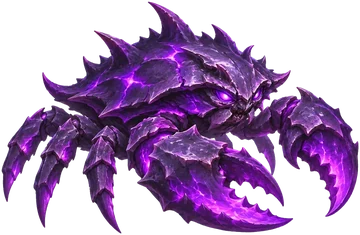
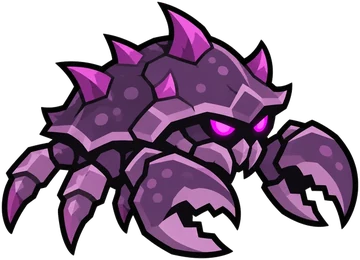
sea: 굵은 만화풍으로 그림 12장·화면 틀 교체, 6판까지 열기
Claude-Session: https://claude.ai/code/session_01BVqfE3F1DYhPhA1ypr4yii

diff --git a/sea/game.js b/sea/game.js
@@ -14,7 +14,8 @@ const TOWERS={
   rune:  {cost:90, range:92, cd:.22,dmg:2.6,cls:'mag',beam:true,aura:.15,reveal:true},
 };
 const LV_DMG=[1,1.75,2.7,4.1],LV_RANGE=[1,1.08,1.16,1.24],UP_COST=[.85,1.35,2.4],SELL=.7,MAX_TLV=4;   // 4단계 = 각성(두 갈래 중 하나)
-const UNLOCK={coral:0,bubble:0,jelly:0,conch:2,rune:5};      // 몇 번째 판(0부터)부터 쓸 수 있는가
+const OPEN_N=6;   // 지금 열어 둔 판 수(새 그림체 그림이 있는 범위). 그림이 다 오면 STAGE_N 으로
+const UNLOCK={coral:0,bubble:0,jelly:0,conch:6,rune:8};   // 그림이 오기 전까지 뒤로 미룸(원래 2, 5)      // 몇 번째 판(0부터)부터 쓸 수 있는가
 /* 각성 갈래: 3단계에서 4단계로 올릴 때 하나를 고른다 */
 const BRANCH={
   coral: [{id:'storm',n:['산호 폭풍','珊瑚风暴'],d:['연사 +50%, 관통이 더 자주','射速 +50%，更频繁贯穿']},{id:'venom',n:['독가시','毒刺'],d:['맞은 적에 독(3초)과 갑옷 깎기','命中附带中毒(3秒)并削弱护甲']}],
@@ -55,7 +56,7 @@ const ENEMIES={
   squid:    {hp:72, sp:38,r:12,gold:9, cost:2,  ink:[7,100,4],from:11},       // 먹물: 수호탑 시야를 가림(눌러서 닦기)
   horseshoe:{hp:125,sp:26,r:14,gold:12,cost:2.8,armor:.3,split:3,from:15},    // 분열: 쓰러지면 치어 3마리
   turtle:   {hp:300,sp:18,r:17,gold:25,cost:6,  armor:.3,shell:.3,from:21},   // 바위 껍질: 3초 안 맞으면 보호막 재생
-  elite:    {hp:520,sp:23,r:18,gold:45,cost:11, armor:.3,leak:3,command:[80,.18]}, // 지휘: 주변 적 속도 +18%
+  elite:    {hp:520,sp:23,r:18,gold:45,cost:11, armor:.3,leak:3,command:[80,.18],art:'crab',ew:66,tint:'#ffb040'}, // 지휘: 주변 적 속도 +18%
   /* 구역 보스: art = 쓸 그림, ph = 체력 비율에 따른 패턴 */
   boss: {hp:6000,sp:12,r:30,gold:150,cost:0,armor:.2,leak:12,ew:110,ph:[[.7,'summon','minnow',7],[.45,'ink',3.5],[.22,'summon','elite',2]]},
   boss2:{hp:6600,sp:11,r:30,gold:180,cost:0,armor:.45,leak:12,art:'turtle',ew:120,tint:'#7fa0c0',ph:[[.75,'shield',.25],[.5,'jam',3,4],[.25,'shield',.3]]},
@@ -454,7 +455,7 @@ class Game{
 }
 
 /* ============================== 플랫폼 층: 화면·터치·저장·언어·소리 (위챗·더우인 이식 때 이 파일만 손본다) ============================== */
-const BUILD='1117-1700';
+const BUILD='1117-1742';
 const VW=750,VH=1334,K=VW/W;
 const cv=document.getElementById('game');const g=cv.getContext('2d');cv.width=VW;cv.height=VH;
 function mkCanvas(w,h){const c=document.createElement('canvas');c.width=w;c.height=h;return c;}
@@ -541,11 +542,11 @@ function vib(ms){try{if(navigator.vibrate)navigator.vibrate(ms);}catch(e){}}
 
 /* ============================== 그림: 전부 코드로 그린 심해 발광 그림체 (그림 파일이 오면 바꿔 끼운다) ============================== */
 /* 받은 그림(art/): 이름만 맞으면 코드 그림 대신 쓴다. 목록은 빌드가 채움 */
-const ART=["abyss_rift", "bg_area1", "en_angler", "en_boss", "en_crab", "en_eel", "en_elite", "en_horseshoe", "en_minnow", "en_ray", "en_squid", "en_turtle", "hero_guard", "islet", "temple_gate", "tw_bubble_1", "tw_bubble_3", "tw_conch_1", "tw_coral_1", "tw_coral_2", "tw_jelly_1", "tw_jelly_4", "tw_rune_1"],IMG={};let artVer=0;
+const ART=["abyss_rift", "bg_area1", "en_crab", "en_eel", "en_minnow", "en_ray", "hero_guard", "islet", "temple_gate", "tw_bubble_1", "tw_coral_1", "tw_jelly_1"],IMG={};let artVer=0;
 for(const n of ART){const im=new Image();im.onload=()=>{IMG[n]=im;artVer++;};im.src='art/'+n+'.webp?v='+BUILD;}
 /* 그림 속 생물이 보는 방향(1=오른쪽)과 화면 폭(논리 px) */
 const EFACE={};   // 받은 그림은 모두 오른쪽을 봄(왼쪽을 보는 그림이면 -1)
-const EW={minnow:30,crab:50,eel:62,ray:60,angler:54,squid:56,horseshoe:54,turtle:66,elite:44,boss:120};
+const EW={minnow:27,crab:46,eel:62,ray:60,angler:54,squid:56,horseshoe:54,turtle:66,elite:44,boss:120};
 /* 움직임: 그림은 한 장, 동작은 코드가 만든다. AL = 틱 사이 보간(0~1), FDT = 이번 장면 시간
    GAIT = [걸음새, 간 거리당 박자, 꼬리 흔들림(몸 높이 비율), 조각 수]. 박자는 '간 거리'에 맞춰 돌아서 느려지면 헤엄도 느려지고 멈추면 멈춘다 */
 let AL=1,FDT=.016;
@@ -625,7 +626,7 @@ function drawTower(x,t,time,sel){
   let tim=null;for(let l=lv;l>=1&&!tim;l--)tim=IMG['tw_'+t.k+'_'+l];
   if(tim){const aim=t.k==='coral'||t.k==='conch',dir=aim&&Math.cos(t.ang==null?0:t.ang)<0?-1:1,bob=t.spot===undefined?0:islBob(t.spot,time);
     if(t.vF===undefined)t.vF=dir;t.vF+=(dir-t.vF)*Math.min(1,FDT*8);const vf=Math.abs(t.vF)<.2?(t.vF<0?-.2:.2):t.vF,sq=1+kick*.08,sway=t.k==='jelly'?Math.sin(time*1.6+X)*.025:0;
-    x.save();x.translate(X+(aim?-dir*kick*2.5:0),Y+14+bob);x.rotate(sway);x.scale(vf*s/sq,s*sq);drawImg(x,tim,0,0,Math.min(44,48*tim.width/tim.height));x.restore();
+    x.save();x.translate(X+(aim?-dir*kick*2.5:0),Y+14+bob);x.rotate(sway);x.scale(vf*s/sq,s*sq);drawImg(x,tim,0,0,Math.min(46,52*tim.width/tim.height));x.restore();
     if(kick>.55){x.globalCompositeOperation='lighter';glow(x,X+(aim?dir*14:0),Y-22+bob,22,hexA(c,.9),(kick-.55)*2);x.globalCompositeOperation='source-over';}}
   else{
   oct(x,X,Y+2,18*s,'#26313a',lv>=2?'#e8c45a':'#5c6b74',lv>=3?2.5:1.5);
@@ -745,7 +746,7 @@ function drawHero(x,h,time,sel){
   if(sel){x.strokeStyle=`rgba(120,255,220,${.6+.3*Math.sin(time*8)})`;x.lineWidth=2;x.beginPath();x.ellipse(HX,HY+14,20,8,0,0,7);x.stroke();x.strokeStyle='rgba(120,255,220,.25)';x.beginPath();x.arc(HX,HY,HERO.range,0,7);x.stroke();}
   if(IMG.hero_guard){
     if(walk&&Math.random()<.3)fx({k:'bub',x:HX-h.face*10+(Math.random()-.5)*6,y:HY+4,v:22+Math.random()*20,s:1+Math.random()*1.6,ph:Math.random()*6,life:.7});
-    x.save();x.translate(X+h.face*sw*5,Y+14);x.scale(vf*(1+sl*.2),(1-sl*.26)*(1+(walk?0:Math.sin(time*2)*.012)));x.rotate((walk?.07:0)+sw*.2);drawImg(x,IMG.hero_guard,0,0,46);x.restore();
+    x.save();x.translate(X+h.face*sw*5,Y+14);x.scale(vf*(1+sl*.2),(1-sl*.26)*(1+(walk?0:Math.sin(time*2)*.012)));x.rotate((walk?.07:0)+sw*.2);drawImg(x,IMG.hero_guard,0,0,50);x.restore();
     if(at>0){x.strokeStyle=`rgba(170,245,255,${at})`;x.lineWidth=3*at+1;x.lineCap='round';x.beginPath();const c0=h.face>0?0:Math.PI;x.arc(X+h.face*6,Y-4,20+(1-at)*8,c0-1.1,c0+1.1);x.stroke();}
     x.fillStyle='#e8c45a';x.beginPath();x.arc(X-13,Y-26,6,0,7);x.fill();txt(x,''+h.lv,X-13,Y-26,8,'#3a2a00');return;}
   x.save();x.translate(X,Y);x.scale(h.face,1);
@@ -802,7 +803,7 @@ const EN_TXT={
   squid:[['먹물오징어','墨汁乌贼'],['먹물: 수호탑을 가려 사거리·속도를 낮춰요. 탑을 눌러 닦으세요','喷墨：遮蔽守护塔降低射程和攻速，点击该塔擦掉']],
   horseshoe:[['투구게','鲎'],['분열: 쓰러지면 치어 3마리. 소라 대포로 한꺼번에','分裂：倒下生出3条小鱼，用海螺炮一网打尽']],
   turtle:[['바위거북','岩石龟'],['바위 껍질: 3초 안 맞으면 보호막 재생. 쉬지 말고 공격하거나 정화 룬으로','岩壳：3秒不挨打就恢复护盾。持续攻击或用净化符文']],
-  elite:[['심연 해마 기사','深渊海马骑士'],['지휘: 주변 적 속도 +18%. 지나가면 생명 -3','指挥：周围敌人移速+18%。漏过扣3生命']],
+  elite:[['심연 대장게','深渊蟹将'],['지휘: 주변 적 속도 +18%. 지나가면 생명 -3','指挥：周围敌人移速+18%。漏过扣3生命']],
   boss:[['심연 아귀왕','深渊鮟鱇王'],['1구역 보스. 치어 떼 소환 → 모든 탑에 먹물 → 정예 소환','第1区域首领。召唤鱼群→全塔喷墨→召唤精英']],
   boss2:[['강철 거북','钢铁龟'],['2구역 보스. 두꺼운 장갑, 보호막을 두르고 가까운 탑 3개를 마비시켜요','第2区域首领。厚重装甲，生成护盾并瘫痪最近的3座塔']],
   boss3:[['용암 투구게 여왕','熔岩鲎女王'],['3구역 보스. 투구게를 낳고, 모든 적을 6초간 +35% 빠르게 해요','第3区域首领。产下鲎，并让全体敌人6秒内加速35%']],
@@ -937,7 +938,7 @@ function overlayBtns(){
   if(o==='cards')return G.cards.map((c,i)=>({id:'card'+i,x:40,y:330+i*112,w:370,h:96}));
   if(o==='pause')return [{id:'resume',x:W/2-110,y:250,w:220,h:46},{id:'retry',x:W/2-110,y:306,w:220,h:46},{id:'map',x:W/2-110,y:362,w:220,h:46},
     {id:'sfx',x:W/2-110,y:430,w:106,h:40},{id:'bgm',x:W/2+4,y:430,w:106,h:40},{id:'lang',x:W/2-110,y:478,w:220,h:40}];
-  if(o==='result'){const b=[{id:'retry',x:W/2-150,y:520,w:140,h:48},{id:'map',x:W/2+10,y:520,w:140,h:48}];if(G.state==='win'&&G.si<STAGE_N-1)b.push({id:'next',x:W/2-110,y:580,w:220,h:52});return b;}
+  if(o==='result'){const b=[{id:'retry',x:W/2-150,y:520,w:140,h:48},{id:'map',x:W/2+10,y:520,w:140,h:48}];if(G.state==='win'&&G.si<OPEN_N-1)b.push({id:'next',x:W/2-110,y:580,w:220,h:52});return b;}
   return [];
 }
 function tapOverlay(p){
@@ -1025,9 +1026,9 @@ function drawBattle(dt){
   if(ui.tip){x.globalAlpha=Math.min(1,ui.tip.t*2);rr(x,24,92,W-48,46,12);x.fillStyle='rgba(8,24,36,.88)';x.fill();x.strokeStyle='rgba(120,240,255,.5)';x.lineWidth=1.5;x.stroke();wrap(x,ui.tip.s,W/2,108,W-70,12,'#e8fbff',16);x.globalAlpha=1;}
   if(ui.overlay)drawOverlay(x);
 }
-function chip(x,X,Y,ic,col){x.fillStyle=col;x.beginPath();x.arc(X,Y,10,0,7);x.fill();txt(x,ic,X,Y+1,11,'#fff');}
+function chip(x,X,Y,ic,col){x.fillStyle=col;x.beginPath();x.arc(X,Y,10,0,7);x.fill();x.strokeStyle='#06090d';x.lineWidth=2;x.stroke();txt(x,ic,X,Y+1,11,'#fff');}
 function drawHud(x){
-  let gr=x.createLinearGradient(0,0,0,48);gr.addColorStop(0,'rgba(4,16,26,.92)');gr.addColorStop(1,'rgba(4,16,26,.55)');x.fillStyle=gr;x.fillRect(0,0,W,46);
+  let gr;x.fillStyle='#0d222c';x.fillRect(0,0,W,44);x.fillStyle='#06090d';x.fillRect(0,44,W,3);
   glow(x,22,23,14,'rgba(255,120,170,.6)');txt(x,'♥',22,23,18,'#ff7aa8');txt(x,''+G.lives,48,23,16,'#fff','left','rgba(0,0,0,.6)');
   x.fillStyle='#7ff';x.beginPath();x.moveTo(98,15);x.lineTo(105,23);x.lineTo(98,31);x.lineTo(91,23);x.closePath();x.fill();txt(x,''+G.gold,112,23,16+Math.max(0,ui.goldB)*5,ui.goldB>0?'#fff':'#e6ffff','left','rgba(0,0,0,.6)');
   if(ui.combo>=3){const cp=Math.min(1,ui.comboT/.4);x.globalAlpha=cp;txt(x,'×'+ui.combo,W-34,84,18+Math.min(10,ui.combo*.3),ui.combo>=20?'#ff9ad8':ui.combo>=10?'#ffd76a':'#bff','center','rgba(0,0,0,.7)',900);txt(x,L('연속','连击'),W-34,104,9,'#cde');x.globalAlpha=1;}
@@ -1036,7 +1037,7 @@ function drawHud(x){
   let cx=16;for(const m of G.mutList){chip(x,cx,58,MUTS[m].ic,'rgba(110,40,150,.85)');cx+=22;}
   if(G.mutList.length)cx+=6;for(const b of G.blessList){chip(x,cx,58,BLESS[b].ic,'rgba(150,110,20,.85)');cx+=22;}
   /* 아래 막대 */
-  gr=x.createLinearGradient(0,740,0,H);gr.addColorStop(0,'rgba(4,16,26,.6)');gr.addColorStop(1,'rgba(4,16,26,.95)');x.fillStyle=gr;x.fillRect(0,740,W,60);
+  x.fillStyle='#0d222c';x.fillRect(0,742,W,58);x.fillStyle='#06090d';x.fillRect(0,739,W,3);
   const h=G.hero;
   for(const k in CMD){const B=BAR[k],C=CMD[k],lock=G.si<C.from,cd=G.cmdCd[k],cdF=cd>0?cd/(C.cd*G.B.heroCd):0,rdy=!lock&&cdF<=0,aim=ui.aim===k;
     x.fillStyle=lock?'#1a2228':rdy?(aim?'#a06a10':'#1d5a6a'):'#24343e';x.beginPath();x.arc(B.x,B.y,B.r,0,7);x.fill();x.strokeStyle=lock?'#345':rdy?(aim?'#ffd76a':'#8ff'):'#567';x.lineWidth=2.5;x.stroke();
@@ -1056,7 +1057,7 @@ function drawHud(x){
   if(act&&G.state!=='prep'&&G.nextT>0){x.fillStyle='rgba(255,255,255,.35)';x.fillRect(WB.x+10,WB.y+WB.h-5,(WB.w-20)*(G.nextT/WAVE_GAP),2);}
   const SB=BAR.speed;x.fillStyle=ui.speed===2?'#a06a10':'#22404a';x.beginPath();x.arc(SB.x,SB.y,SB.r,0,7);x.fill();x.strokeStyle='#e8c45a';x.lineWidth=2;x.stroke();txt(x,ui.speed===2?'▶▶':'▶',SB.x,SB.y,ui.speed===2?11:13,'#fff');
 }
-function infoPanel(x,lines,anchorY){const h=18+lines.length*17,y=anchorY>520?60:H-66-h;rr(x,16,y,W-32,h,12);x.fillStyle='rgba(6,20,30,.93)';x.fill();x.strokeStyle='rgba(120,240,255,.45)';x.lineWidth=1.5;x.stroke();
+function infoPanel(x,lines,anchorY){const h=18+lines.length*17,y=anchorY>520?60:H-66-h;rr(x,16,y,W-32,h,10);x.fillStyle='rgba(16,42,54,.97)';x.fill();x.strokeStyle='#06090d';x.lineWidth=3;x.stroke();
   lines.forEach((l,i)=>txt(x,l[0],28,y+17+i*17,l[2]||11,l[1]||'#e8fbff','left',null,i===0?900:700));}
 function drawBuildMenu(x,i){
   const s=G.M.spots[i];
@@ -1085,8 +1086,11 @@ function drawHints(x){
   else if(G.state==='prep'&&G.towers.length&&!ui.sel)arrowHint(x,BAR.wave.x+BAR.wave.w/2,BAR.wave.y-2,L('준비되면 시작!','准备好就开始！'));
 }
 /* ---------- 겹쳐 뜨는 창 ---------- */
-function panel(x,X,Y,w,h){rr(x,X,Y,w,h,18);const gr=x.createLinearGradient(0,Y,0,Y+h);gr.addColorStop(0,'rgba(14,44,60,.97)');gr.addColorStop(1,'rgba(6,20,30,.97)');x.fillStyle=gr;x.fill();x.strokeStyle='rgba(120,240,255,.55)';x.lineWidth=2;x.stroke();}
-function btn(x,b,label,col,size){rr(x,b.x,b.y,b.w,b.h,14);const gr=x.createLinearGradient(0,b.y,0,b.y+b.h);gr.addColorStop(0,col||'#3fd0c0');gr.addColorStop(1,'#14606e');x.fillStyle=gr;x.fill();x.strokeStyle='rgba(255,255,255,.5)';x.lineWidth=1.5;x.stroke();txt(x,label,b.x+b.w/2,b.y+b.h/2+1,size||15,'#fff','center','rgba(0,0,0,.35)');}
+function panel(x,X,Y,w,h){rr(x,X,Y+5,w,h,14);x.fillStyle='rgba(0,0,0,.45)';x.fill();rr(x,X,Y,w,h,14);x.fillStyle='#14323f';x.fill();x.strokeStyle='#06090d';x.lineWidth=3.5;x.stroke();rr(x,X+4,Y+4,w-8,h-8,10);x.strokeStyle='rgba(120,220,230,.22)';x.lineWidth=1.5;x.stroke();}
+const BTN_MAP={'#3fd0c0':'#25c2ae','#3a8a9a':'#2f7f96','#2a6a7a':'#2a6478','#6a8a9a':'#55788c','#d0a030':'#f0b429','#555':'#4a5560','#345':'#33424e','#444':'#3c4650','#a06a10':'#c98a1a'};
+function shade(c,f){const n=parseInt(c.slice(1),16);return `rgb(${Math.round((n>>16)*f)},${Math.round(((n>>8)&255)*f)},${Math.round((n&255)*f)})`;}
+function btn(x,b,label,col,size){const c=BTN_MAP[col||'#3fd0c0']||'#25c2ae';rr(x,b.x,b.y+4,b.w,b.h,11);x.fillStyle='#06090d';x.fill();rr(x,b.x,b.y+3,b.w,b.h,11);x.fillStyle=shade(c,.6);x.fill();rr(x,b.x,b.y,b.w,b.h-2,11);x.fillStyle=c;x.fill();
+  x.save();rr(x,b.x,b.y,b.w,b.h-2,11);x.clip();x.fillStyle='rgba(255,255,255,.16)';x.fillRect(b.x,b.y,b.w,(b.h-2)*.45);x.restore();rr(x,b.x,b.y,b.w,b.h+1,11);x.strokeStyle='#06090d';x.lineWidth=3;x.stroke();txt(x,label,b.x+b.w/2,b.y+b.h/2,size||15,'#fff','center','#06090d',900);}
 function drawOverlay(x){
   x.fillStyle='rgba(0,8,16,.6)';x.fillRect(0,0,W,H);const o=ui.overlay,B=overlayBtns();
   if(o==='intro'){const S=G.S;panel(x,24,90,W-48,610);
@@ -1138,12 +1142,12 @@ function dailyInit(){const t=today();if(SV.day===t&&SV.mis.length===3)return;SV.
 function mission(id,n){for(const m of SV.mis)if(m.id===id&&!m.got)m.p=Math.min(MIS[id][0],m.p+n);}
 const loginReady=()=>SV.login.last!==today();
 const rewardBadge=()=>loginReady()||SV.mis.some(m=>!m.got&&m.p>=MIS[m.id][0]);
-const metaOpen=k=>k==='hero'||UNLOCK[k]<=cleared();
+const metaOpen=k=>k==='hero'||UNLOCK[k]<=Math.min(cleared(),OPEN_N-1);
 const canUp=()=>[...TOWER_IDS,'hero'].some(k=>metaOpen(k)&&SV.lv[k]<MAX_LV&&SV.coins>=lvCost(SV.lv[k]));
 const avgLv=()=>{const ks=[...TOWER_IDS,'hero'].filter(metaOpen);return ks.reduce((a,k)=>a+SV.lv[k],0)/ks.length;};
 dailyInit();
 /* ---------- 공통 머리띠 ---------- */
-function coinChip(x,X,Y){rr(x,X-44,Y-13,88,26,13);x.fillStyle='rgba(0,0,0,.45)';x.fill();x.fillStyle='#ffd76a';x.beginPath();x.arc(X-30,Y,8,0,7);x.fill();txt(x,'◆',X-30,Y+.5,9,'#8a5a00');txt(x,''+SV.coins,X+8,Y+1,13,'#ffe9a8');}
+function coinChip(x,X,Y){rr(x,X-44,Y-13,88,26,13);x.fillStyle='#0d222c';x.fill();x.strokeStyle='#06090d';x.lineWidth=2.5;x.stroke();x.fillStyle='#f0b429';x.beginPath();x.arc(X-30,Y,8,0,7);x.fill();x.lineWidth=2;x.stroke();txt(x,'◆',X-30,Y+.5,9,'#6a4200');txt(x,''+SV.coins,X+8,Y+1,13,'#ffe9a8','center','#06090d',900);}
 function header(x,title,sub){let gr=x.createLinearGradient(0,0,0,100);gr.addColorStop(0,'rgba(2,14,22,.95)');gr.addColorStop(1,'rgba(2,14,22,0)');x.fillStyle=gr;x.fillRect(0,0,W,100);
   x.fillStyle='rgba(255,255,255,.15)';x.beginPath();x.arc(30,36,18,0,7);x.fill();txt(x,'‹',30,34,26,'#fff');txt(x,title,W/2,36,20,'#fff','center','rgba(0,0,0,.5)');if(sub)txt(x,sub,W/2,60,11,'#9fd');coinChip(x,W-58,36);}
 const hitBack=p=>Math.hypot(p.x-30,p.y-36)<26;
@@ -1169,10 +1173,10 @@ const NODE=[[118,170],[300,222],[196,282],[338,338],[124,396],[262,452],[364,510
 let mapArea=-1;
 const MAPB={prev:{x:20,y:734,w:120,h:44},next:{x:W-140,y:734,w:120,h:44}};
 function drawMap(dt){
-  if(mapArea<0)mapArea=Math.min(AREAS.length-1,Math.floor(Math.min(cleared(),STAGE_N-1)/PER_AREA));
+  if(mapArea<0)mapArea=0;
   const x=g,a=mapArea,A=AREAS[a],cl=cleared();x.setTransform(K,0,0,K,0,0);seaBg(x,dt,A.tint);
   x.strokeStyle='rgba(180,140,255,.35)';x.lineWidth=3;x.setLineDash([6,8]);x.lineDashOffset=-time*20;x.beginPath();NODE.forEach((p,i)=>i?x.lineTo(p[0],p[1]):x.moveTo(p[0],p[1]));x.stroke();x.setLineDash([]);
-  NODE.forEach((p,j)=>{const i=a*PER_AREA+j,open=i<=cl,boss=j===PER_AREA-1,cur=i===Math.min(cl,STAGE_N-1),r=boss?30:24;
+  NODE.forEach((p,j)=>{const i=a*PER_AREA+j,open=i<=cl&&i<OPEN_N,boss=j===PER_AREA-1,cur=i===Math.min(cl,STAGE_N-1),r=boss?30:24;
     if(cur)glow(x,p[0],p[1],r*2,'rgba(255,215,106,.5)',.6+.4*Math.sin(time*4));
     x.fillStyle=open?(boss?'#4a1f5e':j===4?'#5a4a1a':'#14505e'):'#1a2a32';x.beginPath();x.arc(p[0],p[1],r,0,7);x.fill();x.strokeStyle=cur?'#ffd76a':open?'#7ff':'#3a4a52';x.lineWidth=3;x.stroke();
     txt(x,open?(boss?'👑':''+(i+1)):'🔒',p[0],p[1]+1,boss?20:16,'#fff');
@@ -1180,6 +1184,7 @@ function drawMap(dt){
     txt(x,depthOf(i)+'m',p[0]+(p[0]<W/2?r+22:-r-22),p[1],10,'rgba(200,240,255,.6)');});
   const tot=SV.stars.reduce((p,q)=>p+q,0);header(x,LL(A.n),L(`${a+1}구역 · ★ ${tot}/${STAGE_N*3}`,`第${a+1}区域 · ★ ${tot}/${STAGE_N*3}`));
   txt(x,L(`권장 숙련 Lv${recLv(a*PER_AREA)}~${recLv(a*PER_AREA+9)} · 내 평균 Lv${avgLv().toFixed(1)}`,`推荐熟练 Lv${recLv(a*PER_AREA)}~${recLv(a*PER_AREA+9)} · 我的平均 Lv${avgLv().toFixed(1)}`),W/2,88,11,'#bfe');
+  if(a===0)txt(x,L(`지금은 ${OPEN_N}판까지 (새 그림체로 다듬는 중)`,`目前开放到第${OPEN_N}关（新画风打磨中）`),W/2,716,11,'#ffe9a8','center','#06090d');
   if(a>0)btn(x,MAPB.prev,L('◀ 이전 구역','◀ 上一区域'),'#3a8a9a',12);
   if(a<AREAS.length-1){const ok=cl>=(a+1)*PER_AREA;btn(x,MAPB.next,ok?L('다음 구역 ▶','下一区域 ▶'):L('🔒 보스를 이기면','🔒 击败首领后'),ok?'#3a8a9a':'#444',12);}
 }
@@ -1187,7 +1192,7 @@ function tapMap(p){if(hitBack(p)){scr='home';sfx('tap');return;}
   const cl=cleared(),a=mapArea;
   if(a>0&&hitR(p,MAPB.prev)){mapArea--;sfx('tap');return;}
   if(a<AREAS.length-1&&hitR(p,MAPB.next)&&cl>=(a+1)*PER_AREA){mapArea++;sfx('tap');return;}
-  NODE.forEach((q,j)=>{const i=a*PER_AREA+j;if(Math.hypot(p.x-q[0],p.y-q[1])<30&&i<=cl){sfx('tap');tryEnter(i);}});}
+  NODE.forEach((q,j)=>{const i=a*PER_AREA+j;if(Math.hypot(p.x-q[0],p.y-q[1])<30&&i<=cl&&i<OPEN_N){sfx('tap');tryEnter(i);}});}
 /* ---------- 수호대 강화(판 밖 성장) ---------- */
 const upRow=i=>({x:24,y:104+i*104,w:W-48,h:94});
 function drawUpgrade(dt){const x=g;x.setTransform(K,0,0,K,0,0);seaBg(x,dt,'rgba(0,10,20,.45)');header(x,L('수호대 강화','守卫队强化'),L('숙련 1마다 공격력 +7%','每级熟练 攻击 +7%'));
@@ -1251,7 +1256,7 @@ function drawHome(dt){
   txt(x,LL(TITLE),W/2,150,LANG==='zh'?40:36,'#eaffff','center','rgba(20,60,90,.9)',900);
   txt(x,L('잿빛 육지를 떠나, 바다에서 다시 살아가기','离开灰烬的陆地，在海中重新生活'),W/2,194,13,'#bfe9ff');
   coinChip(x,W-58,36);
-  const cl=cleared();btn(x,HOME_BTN.start,cl>=STAGE_N?L('다시 도전','再次挑战'):cl?L(`출격 · ${cl+1}판`,`出击 · 第${cl+1}关`):L('출격','出击'),'#3fd0c0',20);
+  const cl=Math.min(cleared(),OPEN_N);btn(x,HOME_BTN.start,cl>=OPEN_N?L('다시 도전','再次挑战'):cl?L(`출격 · ${cl+1}판`,`出击 · 第${cl+1}关`):L('출격','出击'),'#3fd0c0',20);
   btn(x,HOME_BTN.up,L('수호대 강화','强化'),'#3a8a9a',13);if(canUp())dot(x,HOME_BTN.up);
   btn(x,HOME_BTN.dex,L('도감','图鉴'),'#3a8a9a',13);
   btn(x,HOME_BTN.rw,L('보상','奖励'),'#3a8a9a',13);if(rewardBadge())dot(x,HOME_BTN.rw);

diff --git a/dev/sea/src/ui.js b/dev/sea/src/ui.js
@@ -16,7 +16,7 @@ const EN_TXT={
   squid:[['먹물오징어','墨汁乌贼'],['먹물: 수호탑을 가려 사거리·속도를 낮춰요. 탑을 눌러 닦으세요','喷墨：遮蔽守护塔降低射程和攻速，点击该塔擦掉']],
   horseshoe:[['투구게','鲎'],['분열: 쓰러지면 치어 3마리. 소라 대포로 한꺼번에','分裂：倒下生出3条小鱼，用海螺炮一网打尽']],
   turtle:[['바위거북','岩石龟'],['바위 껍질: 3초 안 맞으면 보호막 재생. 쉬지 말고 공격하거나 정화 룬으로','岩壳：3秒不挨打就恢复护盾。持续攻击或用净化符文']],
-  elite:[['심연 해마 기사','深渊海马骑士'],['지휘: 주변 적 속도 +18%. 지나가면 생명 -3','指挥：周围敌人移速+18%。漏过扣3生命']],
+  elite:[['심연 대장게','深渊蟹将'],['지휘: 주변 적 속도 +18%. 지나가면 생명 -3','指挥：周围敌人移速+18%。漏过扣3生命']],
   boss:[['심연 아귀왕','深渊鮟鱇王'],['1구역 보스. 치어 떼 소환 → 모든 탑에 먹물 → 정예 소환','第1区域首领。召唤鱼群→全塔喷墨→召唤精英']],
   boss2:[['강철 거북','钢铁龟'],['2구역 보스. 두꺼운 장갑, 보호막을 두르고 가까운 탑 3개를 마비시켜요','第2区域首领。厚重装甲，生成护盾并瘫痪最近的3座塔']],
   boss3:[['용암 투구게 여왕','熔岩鲎女王'],['3구역 보스. 투구게를 낳고, 모든 적을 6초간 +35% 빠르게 해요','第3区域首领。产下鲎，并让全体敌人6秒内加速35%']],
@@ -151,7 +151,7 @@ function overlayBtns(){
   if(o==='cards')return G.cards.map((c,i)=>({id:'card'+i,x:40,y:330+i*112,w:370,h:96}));
   if(o==='pause')return [{id:'resume',x:W/2-110,y:250,w:220,h:46},{id:'retry',x:W/2-110,y:306,w:220,h:46},{id:'map',x:W/2-110,y:362,w:220,h:46},
     {id:'sfx',x:W/2-110,y:430,w:106,h:40},{id:'bgm',x:W/2+4,y:430,w:106,h:40},{id:'lang',x:W/2-110,y:478,w:220,h:40}];
-  if(o==='result'){const b=[{id:'retry',x:W/2-150,y:520,w:140,h:48},{id:'map',x:W/2+10,y:520,w:140,h:48}];if(G.state==='win'&&G.si<STAGE_N-1)b.push({id:'next',x:W/2-110,y:580,w:220,h:52});return b;}
+  if(o==='result'){const b=[{id:'retry',x:W/2-150,y:520,w:140,h:48},{id:'map',x:W/2+10,y:520,w:140,h:48}];if(G.state==='win'&&G.si<OPEN_N-1)b.push({id:'next',x:W/2-110,y:580,w:220,h:52});return b;}
   return [];
 }
 function tapOverlay(p){
@@ -239,9 +239,9 @@ function drawBattle(dt){
   if(ui.tip){x.globalAlpha=Math.min(1,ui.tip.t*2);rr(x,24,92,W-48,46,12);x.fillStyle='rgba(8,24,36,.88)';x.fill();x.strokeStyle='rgba(120,240,255,.5)';x.lineWidth=1.5;x.stroke();wrap(x,ui.tip.s,W/2,108,W-70,12,'#e8fbff',16);x.globalAlpha=1;}
   if(ui.overlay)drawOverlay(x);
 }
-function chip(x,X,Y,ic,col){x.fillStyle=col;x.beginPath();x.arc(X,Y,10,0,7);x.fill();txt(x,ic,X,Y+1,11,'#fff');}
+function chip(x,X,Y,ic,col){x.fillStyle=col;x.beginPath();x.arc(X,Y,10,0,7);x.fill();x.strokeStyle='#06090d';x.lineWidth=2;x.stroke();txt(x,ic,X,Y+1,11,'#fff');}
 function drawHud(x){
-  let gr=x.createLinearGradient(0,0,0,48);gr.addColorStop(0,'rgba(4,16,26,.92)');gr.addColorStop(1,'rgba(4,16,26,.55)');x.fillStyle=gr;x.fillRect(0,0,W,46);
+  let gr;x.fillStyle='#0d222c';x.fillRect(0,0,W,44);x.fillStyle='#06090d';x.fillRect(0,44,W,3);
   glow(x,22,23,14,'rgba(255,120,170,.6)');txt(x,'♥',22,23,18,'#ff7aa8');txt(x,''+G.lives,48,23,16,'#fff','left','rgba(0,0,0,.6)');
   x.fillStyle='#7ff';x.beginPath();x.moveTo(98,15);x.lineTo(105,23);x.lineTo(98,31);x.lineTo(91,23);x.closePath();x.fill();txt(x,''+G.gold,112,23,16+Math.max(0,ui.goldB)*5,ui.goldB>0?'#fff':'#e6ffff','left','rgba(0,0,0,.6)');
   if(ui.combo>=3){const cp=Math.min(1,ui.comboT/.4);x.globalAlpha=cp;txt(x,'×'+ui.combo,W-34,84,18+Math.min(10,ui.combo*.3),ui.combo>=20?'#ff9ad8':ui.combo>=10?'#ffd76a':'#bff','center','rgba(0,0,0,.7)',900);txt(x,L('연속','连击'),W-34,104,9,'#cde');x.globalAlpha=1;}
@@ -250,7 +250,7 @@ function drawHud(x){
   let cx=16;for(const m of G.mutList){chip(x,cx,58,MUTS[m].ic,'rgba(110,40,150,.85)');cx+=22;}
   if(G.mutList.length)cx+=6;for(const b of G.blessList){chip(x,cx,58,BLESS[b].ic,'rgba(150,110,20,.85)');cx+=22;}
   /* 아래 막대 */
-  gr=x.createLinearGradient(0,740,0,H);gr.addColorStop(0,'rgba(4,16,26,.6)');gr.addColorStop(1,'rgba(4,16,26,.95)');x.fillStyle=gr;x.fillRect(0,740,W,60);
+  x.fillStyle='#0d222c';x.fillRect(0,742,W,58);x.fillStyle='#06090d';x.fillRect(0,739,W,3);
   const h=G.hero;
   for(const k in CMD){const B=BAR[k],C=CMD[k],lock=G.si<C.from,cd=G.cmdCd[k],cdF=cd>0?cd/(C.cd*G.B.heroCd):0,rdy=!lock&&cdF<=0,aim=ui.aim===k;
     x.fillStyle=lock?'#1a2228':rdy?(aim?'#a06a10':'#1d5a6a'):'#24343e';x.beginPath();x.arc(B.x,B.y,B.r,0,7);x.fill();x.strokeStyle=lock?'#345':rdy?(aim?'#ffd76a':'#8ff'):'#567';x.lineWidth=2.5;x.stroke();
@@ -270,7 +270,7 @@ function drawHud(x){
   if(act&&G.state!=='prep'&&G.nextT>0){x.fillStyle='rgba(255,255,255,.35)';x.fillRect(WB.x+10,WB.y+WB.h-5,(WB.w-20)*(G.nextT/WAVE_GAP),2);}
   const SB=BAR.speed;x.fillStyle=ui.speed===2?'#a06a10':'#22404a';x.beginPath();x.arc(SB.x,SB.y,SB.r,0,7);x.fill();x.strokeStyle='#e8c45a';x.lineWidth=2;x.stroke();txt(x,ui.speed===2?'▶▶':'▶',SB.x,SB.y,ui.speed===2?11:13,'#fff');
 }
-function infoPanel(x,lines,anchorY){const h=18+lines.length*17,y=anchorY>520?60:H-66-h;rr(x,16,y,W-32,h,12);x.fillStyle='rgba(6,20,30,.93)';x.fill();x.strokeStyle='rgba(120,240,255,.45)';x.lineWidth=1.5;x.stroke();
+function infoPanel(x,lines,anchorY){const h=18+lines.length*17,y=anchorY>520?60:H-66-h;rr(x,16,y,W-32,h,10);x.fillStyle='rgba(16,42,54,.97)';x.fill();x.strokeStyle='#06090d';x.lineWidth=3;x.stroke();
   lines.forEach((l,i)=>txt(x,l[0],28,y+17+i*17,l[2]||11,l[1]||'#e8fbff','left',null,i===0?900:700));}
 function drawBuildMenu(x,i){
   const s=G.M.spots[i];
@@ -299,8 +299,11 @@ function drawHints(x){
   else if(G.state==='prep'&&G.towers.length&&!ui.sel)arrowHint(x,BAR.wave.x+BAR.wave.w/2,BAR.wave.y-2,L('준비되면 시작!','准备好就开始！'));
 }
 /* ---------- 겹쳐 뜨는 창 ---------- */
-function panel(x,X,Y,w,h){rr(x,X,Y,w,h,18);const gr=x.createLinearGradient(0,Y,0,Y+h);gr.addColorStop(0,'rgba(14,44,60,.97)');gr.addColorStop(1,'rgba(6,20,30,.97)');x.fillStyle=gr;x.fill();x.strokeStyle='rgba(120,240,255,.55)';x.lineWidth=2;x.stroke();}
-function btn(x,b,label,col,size){rr(x,b.x,b.y,b.w,b.h,14);const gr=x.createLinearGradient(0,b.y,0,b.y+b.h);gr.addColorStop(0,col||'#3fd0c0');gr.addColorStop(1,'#14606e');x.fillStyle=gr;x.fill();x.strokeStyle='rgba(255,255,255,.5)';x.lineWidth=1.5;x.stroke();txt(x,label,b.x+b.w/2,b.y+b.h/2+1,size||15,'#fff','center','rgba(0,0,0,.35)');}
+function panel(x,X,Y,w,h){rr(x,X,Y+5,w,h,14);x.fillStyle='rgba(0,0,0,.45)';x.fill();rr(x,X,Y,w,h,14);x.fillStyle='#14323f';x.fill();x.strokeStyle='#06090d';x.lineWidth=3.5;x.stroke();rr(x,X+4,Y+4,w-8,h-8,10);x.strokeStyle='rgba(120,220,230,.22)';x.lineWidth=1.5;x.stroke();}
+const BTN_MAP={'#3fd0c0':'#25c2ae','#3a8a9a':'#2f7f96','#2a6a7a':'#2a6478','#6a8a9a':'#55788c','#d0a030':'#f0b429','#555':'#4a5560','#345':'#33424e','#444':'#3c4650','#a06a10':'#c98a1a'};
+function shade(c,f){const n=parseInt(c.slice(1),16);return `rgb(${Math.round((n>>16)*f)},${Math.round(((n>>8)&255)*f)},${Math.round((n&255)*f)})`;}
+function btn(x,b,label,col,size){const c=BTN_MAP[col||'#3fd0c0']||'#25c2ae';rr(x,b.x,b.y+4,b.w,b.h,11);x.fillStyle='#06090d';x.fill();rr(x,b.x,b.y+3,b.w,b.h,11);x.fillStyle=shade(c,.6);x.fill();rr(x,b.x,b.y,b.w,b.h-2,11);x.fillStyle=c;x.fill();
+  x.save();rr(x,b.x,b.y,b.w,b.h-2,11);x.clip();x.fillStyle='rgba(255,255,255,.16)';x.fillRect(b.x,b.y,b.w,(b.h-2)*.45);x.restore();rr(x,b.x,b.y,b.w,b.h+1,11);x.strokeStyle='#06090d';x.lineWidth=3;x.stroke();txt(x,label,b.x+b.w/2,b.y+b.h/2,size||15,'#fff','center','#06090d',900);}
 function drawOverlay(x){
   x.fillStyle='rgba(0,8,16,.6)';x.fillRect(0,0,W,H);const o=ui.overlay,B=overlayBtns();
   if(o==='intro'){const S=G.S;panel(x,24,90,W-48,610);
@@ -352,12 +355,12 @@ function dailyInit(){const t=today();if(SV.day===t&&SV.mis.length===3)return;SV.
 function mission(id,n){for(const m of SV.mis)if(m.id===id&&!m.got)m.p=Math.min(MIS[id][0],m.p+n);}
 const loginReady=()=>SV.login.last!==today();
 const rewardBadge=()=>loginReady()||SV.mis.some(m=>!m.got&&m.p>=MIS[m.id][0]);
-const metaOpen=k=>k==='hero'||UNLOCK[k]<=cleared();
+const metaOpen=k=>k==='hero'||UNLOCK[k]<=Math.min(cleared(),OPEN_N-1);
 const canUp=()=>[...TOWER_IDS,'hero'].some(k=>metaOpen(k)&&SV.lv[k]<MAX_LV&&SV.coins>=lvCost(SV.lv[k]));
 const avgLv=()=>{const ks=[...TOWER_IDS,'hero'].filter(metaOpen);return ks.reduce((a,k)=>a+SV.lv[k],0)/ks.length;};
 dailyInit();
 /* ---------- 공통 머리띠 ---------- */
-function coinChip(x,X,Y){rr(x,X-44,Y-13,88,26,13);x.fillStyle='rgba(0,0,0,.45)';x.fill();x.fillStyle='#ffd76a';x.beginPath();x.arc(X-30,Y,8,0,7);x.fill();txt(x,'◆',X-30,Y+.5,9,'#8a5a00');txt(x,''+SV.coins,X+8,Y+1,13,'#ffe9a8');}
+function coinChip(x,X,Y){rr(x,X-44,Y-13,88,26,13);x.fillStyle='#0d222c';x.fill();x.strokeStyle='#06090d';x.lineWidth=2.5;x.stroke();x.fillStyle='#f0b429';x.beginPath();x.arc(X-30,Y,8,0,7);x.fill();x.lineWidth=2;x.stroke();txt(x,'◆',X-30,Y+.5,9,'#6a4200');txt(x,''+SV.coins,X+8,Y+1,13,'#ffe9a8','center','#06090d',900);}
 function header(x,title,sub){let gr=x.createLinearGradient(0,0,0,100);gr.addColorStop(0,'rgba(2,14,22,.95)');gr.addColorStop(1,'rgba(2,14,22,0)');x.fillStyle=gr;x.fillRect(0,0,W,100);
   x.fillStyle='rgba(255,255,255,.15)';x.beginPath();x.arc(30,36,18,0,7);x.fill();txt(x,'‹',30,34,26,'#fff');txt(x,title,W/2,36,20,'#fff','center','rgba(0,0,0,.5)');if(sub)txt(x,sub,W/2,60,11,'#9fd');coinChip(x,W-58,36);}
 const hitBack=p=>Math.hypot(p.x-30,p.y-36)<26;
@@ -383,10 +386,10 @@ const NODE=[[118,170],[300,222],[196,282],[338,338],[124,396],[262,452],[364,510
 let mapArea=-1;
 const MAPB={prev:{x:20,y:734,w:120,h:44},next:{x:W-140,y:734,w:120,h:44}};
 function drawMap(dt){
-  if(mapArea<0)mapArea=Math.min(AREAS.length-1,Math.floor(Math.min(cleared(),STAGE_N-1)/PER_AREA));
+  if(mapArea<0)mapArea=0;
   const x=g,a=mapArea,A=AREAS[a],cl=cleared();x.setTransform(K,0,0,K,0,0);seaBg(x,dt,A.tint);
   x.strokeStyle='rgba(180,140,255,.35)';x.lineWidth=3;x.setLineDash([6,8]);x.lineDashOffset=-time*20;x.beginPath();NODE.forEach((p,i)=>i?x.lineTo(p[0],p[1]):x.moveTo(p[0],p[1]));x.stroke();x.setLineDash([]);
-  NODE.forEach((p,j)=>{const i=a*PER_AREA+j,open=i<=cl,boss=j===PER_AREA-1,cur=i===Math.min(cl,STAGE_N-1),r=boss?30:24;
+  NODE.forEach((p,j)=>{const i=a*PER_AREA+j,open=i<=cl&&i<OPEN_N,boss=j===PER_AREA-1,cur=i===Math.min(cl,STAGE_N-1),r=boss?30:24;
     if(cur)glow(x,p[0],p[1],r*2,'rgba(255,215,106,.5)',.6+.4*Math.sin(time*4));
     x.fillStyle=open?(boss?'#4a1f5e':j===4?'#5a4a1a':'#14505e'):'#1a2a32';x.beginPath();x.arc(p[0],p[1],r,0,7);x.fill();x.strokeStyle=cur?'#ffd76a':open?'#7ff':'#3a4a52';x.lineWidth=3;x.stroke();
     txt(x,open?(boss?'👑':''+(i+1)):'🔒',p[0],p[1]+1,boss?20:16,'#fff');
@@ -394,6 +397,7 @@ function drawMap(dt){
     txt(x,depthOf(i)+'m',p[0]+(p[0]<W/2?r+22:-r-22),p[1],10,'rgba(200,240,255,.6)');});
   const tot=SV.stars.reduce((p,q)=>p+q,0);header(x,LL(A.n),L(`${a+1}구역 · ★ ${tot}/${STAGE_N*3}`,`第${a+1}区域 · ★ ${tot}/${STAGE_N*3}`));
   txt(x,L(`권장 숙련 Lv${recLv(a*PER_AREA)}~${recLv(a*PER_AREA+9)} · 내 평균 Lv${avgLv().toFixed(1)}`,`推荐熟练 Lv${recLv(a*PER_AREA)}~${recLv(a*PER_AREA+9)} · 我的平均 Lv${avgLv().toFixed(1)}`),W/2,88,11,'#bfe');
+  if(a===0)txt(x,L(`지금은 ${OPEN_N}판까지 (새 그림체로 다듬는 중)`,`目前开放到第${OPEN_N}关（新画风打磨中）`),W/2,716,11,'#ffe9a8','center','#06090d');
   if(a>0)btn(x,MAPB.prev,L('◀ 이전 구역','◀ 上一区域'),'#3a8a9a',12);
   if(a<AREAS.length-1){const ok=cl>=(a+1)*PER_AREA;btn(x,MAPB.next,ok?L('다음 구역 ▶','下一区域 ▶'):L('🔒 보스를 이기면','🔒 击败首领后'),ok?'#3a8a9a':'#444',12);}
 }
@@ -401,7 +405,7 @@ function tapMap(p){if(hitBack(p)){scr='home';sfx('tap');return;}
   const cl=cleared(),a=mapArea;
   if(a>0&&hitR(p,MAPB.prev)){mapArea--;sfx('tap');return;}
   if(a<AREAS.length-1&&hitR(p,MAPB.next)&&cl>=(a+1)*PER_AREA){mapArea++;sfx('tap');return;}
-  NODE.forEach((q,j)=>{const i=a*PER_AREA+j;if(Math.hypot(p.x-q[0],p.y-q[1])<30&&i<=cl){sfx('tap');tryEnter(i);}});}
+  NODE.forEach((q,j)=>{const i=a*PER_AREA+j;if(Math.hypot(p.x-q[0],p.y-q[1])<30&&i<=cl&&i<OPEN_N){sfx('tap');tryEnter(i);}});}
 /* ---------- 수호대 강화(판 밖 성장) ---------- */
 const upRow=i=>({x:24,y:104+i*104,w:W-48,h:94});
 function drawUpgrade(dt){const x=g;x.setTransform(K,0,0,K,0,0);seaBg(x,dt,'rgba(0,10,20,.45)');header(x,L('수호대 강화','守卫队强化'),L('숙련 1마다 공격력 +7%','每级熟练 攻击 +7%'));
@@ -465,7 +469,7 @@ function drawHome(dt){
   txt(x,LL(TITLE),W/2,150,LANG==='zh'?40:36,'#eaffff','center','rgba(20,60,90,.9)',900);
   txt(x,L('잿빛 육지를 떠나, 바다에서 다시 살아가기','离开灰烬的陆地，在海中重新生活'),W/2,194,13,'#bfe9ff');
   coinChip(x,W-58,36);
-  const cl=cleared();btn(x,HOME_BTN.start,cl>=STAGE_N?L('다시 도전','再次挑战'):cl?L(`출격 · ${cl+1}판`,`出击 · 第${cl+1}关`):L('출격','出击'),'#3fd0c0',20);
+  const cl=Math.min(cleared(),OPEN_N);btn(x,HOME_BTN.start,cl>=OPEN_N?L('다시 도전','再次挑战'):cl?L(`출격 · ${cl+1}판`,`出击 · 第${cl+1}关`):L('출격','出击'),'#3fd0c0',20);
   btn(x,HOME_BTN.up,L('수호대 강화','强化'),'#3a8a9a',13);if(canUp())dot(x,HOME_BTN.up);
   btn(x,HOME_BTN.dex,L('도감','图鉴'),'#3a8a9a',13);
   btn(x,HOME_BTN.rw,L('보상','奖励'),'#3a8a9a',13);if(rewardBadge())dot(x,HOME_BTN.rw);

diff --git a/dev/sea/src/art.js b/dev/sea/src/art.js
@@ -4,7 +4,7 @@ const ART=@@ART@@,IMG={};let artVer=0;
 for(const n of ART){const im=new Image();im.onload=()=>{IMG[n]=im;artVer++;};im.src='art/'+n+'.webp?v='+BUILD;}
 /* 그림 속 생물이 보는 방향(1=오른쪽)과 화면 폭(논리 px) */
 const EFACE={};   // 받은 그림은 모두 오른쪽을 봄(왼쪽을 보는 그림이면 -1)
-const EW={minnow:30,crab:50,eel:62,ray:60,angler:54,squid:56,horseshoe:54,turtle:66,elite:44,boss:120};
+const EW={minnow:27,crab:46,eel:62,ray:60,angler:54,squid:56,horseshoe:54,turtle:66,elite:44,boss:120};
 /* 움직임: 그림은 한 장, 동작은 코드가 만든다. AL = 틱 사이 보간(0~1), FDT = 이번 장면 시간
    GAIT = [걸음새, 간 거리당 박자, 꼬리 흔들림(몸 높이 비율), 조각 수]. 박자는 '간 거리'에 맞춰 돌아서 느려지면 헤엄도 느려지고 멈추면 멈춘다 */
 let AL=1,FDT=.016;
@@ -84,7 +84,7 @@ function drawTower(x,t,time,sel){
   let tim=null;for(let l=lv;l>=1&&!tim;l--)tim=IMG['tw_'+t.k+'_'+l];
   if(tim){const aim=t.k==='coral'||t.k==='conch',dir=aim&&Math.cos(t.ang==null?0:t.ang)<0?-1:1,bob=t.spot===undefined?0:islBob(t.spot,time);
     if(t.vF===undefined)t.vF=dir;t.vF+=(dir-t.vF)*Math.min(1,FDT*8);const vf=Math.abs(t.vF)<.2?(t.vF<0?-.2:.2):t.vF,sq=1+kick*.08,sway=t.k==='jelly'?Math.sin(time*1.6+X)*.025:0;
-    x.save();x.translate(X+(aim?-dir*kick*2.5:0),Y+14+bob);x.rotate(sway);x.scale(vf*s/sq,s*sq);drawImg(x,tim,0,0,Math.min(44,48*tim.width/tim.height));x.restore();
+    x.save();x.translate(X+(aim?-dir*kick*2.5:0),Y+14+bob);x.rotate(sway);x.scale(vf*s/sq,s*sq);drawImg(x,tim,0,0,Math.min(46,52*tim.width/tim.height));x.restore();
     if(kick>.55){x.globalCompositeOperation='lighter';glow(x,X+(aim?dir*14:0),Y-22+bob,22,hexA(c,.9),(kick-.55)*2);x.globalCompositeOperation='source-over';}}
   else{
   oct(x,X,Y+2,18*s,'#26313a',lv>=2?'#e8c45a':'#5c6b74',lv>=3?2.5:1.5);
@@ -204,7 +204,7 @@ function drawHero(x,h,time,sel){
   if(sel){x.strokeStyle=`rgba(120,255,220,${.6+.3*Math.sin(time*8)})`;x.lineWidth=2;x.beginPath();x.ellipse(HX,HY+14,20,8,0,0,7);x.stroke();x.strokeStyle='rgba(120,255,220,.25)';x.beginPath();x.arc(HX,HY,HERO.range,0,7);x.stroke();}
   if(IMG.hero_guard){
     if(walk&&Math.random()<.3)fx({k:'bub',x:HX-h.face*10+(Math.random()-.5)*6,y:HY+4,v:22+Math.random()*20,s:1+Math.random()*1.6,ph:Math.random()*6,life:.7});
-    x.save();x.translate(X+h.face*sw*5,Y+14);x.scale(vf*(1+sl*.2),(1-sl*.26)*(1+(walk?0:Math.sin(time*2)*.012)));x.rotate((walk?.07:0)+sw*.2);drawImg(x,IMG.hero_guard,0,0,46);x.restore();
+    x.save();x.translate(X+h.face*sw*5,Y+14);x.scale(vf*(1+sl*.2),(1-sl*.26)*(1+(walk?0:Math.sin(time*2)*.012)));x.rotate((walk?.07:0)+sw*.2);drawImg(x,IMG.hero_guard,0,0,50);x.restore();
     if(at>0){x.strokeStyle=`rgba(170,245,255,${at})`;x.lineWidth=3*at+1;x.lineCap='round';x.beginPath();const c0=h.face>0?0:Math.PI;x.arc(X+h.face*6,Y-4,20+(1-at)*8,c0-1.1,c0+1.1);x.stroke();}
     x.fillStyle='#e8c45a';x.beginPath();x.arc(X-13,Y-26,6,0,7);x.fill();txt(x,''+h.lv,X-13,Y-26,8,'#3a2a00');return;}
   x.save();x.translate(X,Y);x.scale(h.face,1);

diff --git a/dev/sea/src/data.js b/dev/sea/src/data.js
@@ -13,7 +13,8 @@ const TOWERS={
   rune:  {cost:90, range:92, cd:.22,dmg:2.6,cls:'mag',beam:true,aura:.15,reveal:true},
 };
 const LV_DMG=[1,1.75,2.7,4.1],LV_RANGE=[1,1.08,1.16,1.24],UP_COST=[.85,1.35,2.4],SELL=.7,MAX_TLV=4;   // 4단계 = 각성(두 갈래 중 하나)
-const UNLOCK={coral:0,bubble:0,jelly:0,conch:2,rune:5};      // 몇 번째 판(0부터)부터 쓸 수 있는가
+const OPEN_N=6;   // 지금 열어 둔 판 수(새 그림체 그림이 있는 범위). 그림이 다 오면 STAGE_N 으로
+const UNLOCK={coral:0,bubble:0,jelly:0,conch:6,rune:8};   // 그림이 오기 전까지 뒤로 미룸(원래 2, 5)      // 몇 번째 판(0부터)부터 쓸 수 있는가
 /* 각성 갈래: 3단계에서 4단계로 올릴 때 하나를 고른다 */
 const BRANCH={
   coral: [{id:'storm',n:['산호 폭풍','珊瑚风暴'],d:['연사 +50%, 관통이 더 자주','射速 +50%，更频繁贯穿']},{id:'venom',n:['독가시','毒刺'],d:['맞은 적에 독(3초)과 갑옷 깎기','命中附带中毒(3秒)并削弱护甲']}],
@@ -54,7 +55,7 @@ const ENEMIES={
   squid:    {hp:72, sp:38,r:12,gold:9, cost:2,  ink:[7,100,4],from:11},       // 먹물: 수호탑 시야를 가림(눌러서 닦기)
   horseshoe:{hp:125,sp:26,r:14,gold:12,cost:2.8,armor:.3,split:3,from:15},    // 분열: 쓰러지면 치어 3마리
   turtle:   {hp:300,sp:18,r:17,gold:25,cost:6,  armor:.3,shell:.3,from:21},   // 바위 껍질: 3초 안 맞으면 보호막 재생
-  elite:    {hp:520,sp:23,r:18,gold:45,cost:11, armor:.3,leak:3,command:[80,.18]}, // 지휘: 주변 적 속도 +18%
+  elite:    {hp:520,sp:23,r:18,gold:45,cost:11, armor:.3,leak:3,command:[80,.18],art:'crab',ew:66,tint:'#ffb040'}, // 지휘: 주변 적 속도 +18%
   /* 구역 보스: art = 쓸 그림, ph = 체력 비율에 따른 패턴 */
   boss: {hp:6000,sp:12,r:30,gold:150,cost:0,armor:.2,leak:12,ew:110,ph:[[.7,'summon','minnow',7],[.45,'ink',3.5],[.22,'summon','elite',2]]},
   boss2:{hp:6600,sp:11,r:30,gold:180,cost:0,armor:.45,leak:12,art:'turtle',ew:120,tint:'#7fa0c0',ph:[[.75,'shield',.25],[.5,'jam',3,4],[.25,'shield',.3]]},

diff --git a/sea/sw.js b/sea/sw.js
@@ -1,5 +1,5 @@
 // 오프라인: 인터넷이 되면 새 파일, 안 되면 저장해 둔 파일. 이 게임 전용 캐시(deepsea-)만 만진다.
-const CACHE='deepsea-1117-1700',PRE=["./", "index.html", "game.js", "manifest.webmanifest", "icon-192.png", "art/abyss_rift.webp", "art/bg_area1.webp", "art/en_angler.webp", "art/en_boss.webp", "art/en_crab.webp", "art/en_eel.webp", "art/en_elite.webp", "art/en_horseshoe.webp", "art/en_minnow.webp", "art/en_ray.webp", "art/en_squid.webp", "art/en_turtle.webp", "art/hero_guard.webp", "art/islet.webp", "art/temple_gate.webp", "art/tw_bubble_1.webp", "art/tw_bubble_3.webp", "art/tw_conch_1.webp", "art/tw_coral_1.webp", "art/tw_coral_2.webp", "art/tw_jelly_1.webp", "art/tw_jelly_4.webp", "art/tw_rune_1.webp"];
+const CACHE='deepsea-1117-1742',PRE=["./", "index.html", "game.js", "manifest.webmanifest", "icon-192.png", "art/abyss_rift.webp", "art/bg_area1.webp", "art/en_crab.webp", "art/en_eel.webp", "art/en_minnow.webp", "art/en_ray.webp", "art/hero_guard.webp", "art/islet.webp", "art/temple_gate.webp", "art/tw_bubble_1.webp", "art/tw_coral_1.webp", "art/tw_jelly_1.webp"];
 self.addEventListener('install',e=>{self.skipWaiting();e.waitUntil(caches.open(CACHE).then(c=>Promise.all(PRE.map(u=>c.add(new Request(u,{cache:'reload'})).catch(()=>{})))));});
 self.addEventListener('activate',e=>{e.waitUntil(caches.keys().then(ks=>Promise.all(ks.filter(k=>k.startsWith('deepsea-')&&k!==CACHE).map(k=>caches.delete(k)))).then(()=>self.clients.claim()));});
 self.addEventListener('fetch',e=>{const r=e.request;if(r.method!=='GET'||!r.url.startsWith(self.registration.scope))return;

diff --git a/sea/index.html b/sea/index.html
@@ -5,5 +5,5 @@
 <style>*{box-sizing:border-box}html,body{margin:0;width:100%;height:100%;overflow:hidden;background:#0d3a48;touch-action:none;overscroll-behavior:none}
 body{display:flex;justify-content:center;align-items:center;padding:env(safe-area-inset-top) env(safe-area-inset-right) env(safe-area-inset-bottom) env(safe-area-inset-left)}
 canvas{height:min(100dvh,177.8667vw);width:min(100vw,56.22dvh);display:block;touch-action:none;user-select:none;-webkit-user-select:none;-webkit-touch-callout:none;-webkit-tap-highlight-color:transparent}</style></head>
-<body><canvas id="game" width="750" height="1334"></canvas><script src="game.js?v=1117-1700"></script>
+<body><canvas id="game" width="750" height="1334"></canvas><script src="game.js?v=1117-1742"></script>
 <script>if('serviceWorker' in navigator&&(location.protocol==='https:'||location.hostname==='localhost'))addEventListener('load',()=>navigator.serviceWorker.register('sw.js').catch(()=>{}));</script></body></html>

diff --git a/dev/sea/README_KO.md b/dev/sea/README_KO.md
@@ -2,7 +2,8 @@
 
 - 테스트 주소: https://pyungbum87-create.github.io/cheonha/sea/ (한국어: 끝에 `?lang=ko`, 홈·일시정지에서도 바꿀 수 있음)
 - 퇀퇀 해변 수비대(`dev/beach`)의 "바다 시리즈" 두 번째. 캐릭터·세계관은 새로 만들고, 판당 웨이브 수(8~12)만 참고했다
-- 지금은 **5구역 50판**. 그림체는 A안(생물발광 심해 판타지 + 기갑 수호대)으로 확정(2026-11-17). 받은 그림 23장(배경·바위섬·신전·동굴·영웅·수호탑·적 전부)이 들어가 있다. 수호탑 단계 그림이 없으면 가장 가까운 아래 단계 그림을 쓰고 왕관·빛을 코드로 얹는다. 낱장 그림 주문서는 `ART_PROMPTS.md`, 배경 지우기는 `tools/cutout.py`
+- **2026-11-17 그림체 재확정: 굵은 외곽선의 손그림 만화풍**(사실풍은 작은 화면에서 뭉개지고 한 장 그림으로는 움직임이 어색해 폐기). 새 그림 12장(배경·바위섬·신전·동굴·가드·수호탑 3·적 4)만 있어서 **지금은 6판까지만 열어 둠**(`OPEN_N`), 소라·룬은 뒤로 미룸(`UNLOCK`), 정예는 큰 게로 대신함. 그림이 오면 되돌린다. 화면 틀(버튼·창)도 굵은 선 만화풍
+- 규칙·데이터는 **5구역 50판** 그대로. 그림체는 A안(생물발광 심해 판타지 + 기갑 수호대)으로 확정(2026-11-17). 받은 그림 23장(배경·바위섬·신전·동굴·영웅·수호탑·적 전부)이 들어가 있다. 수호탑 단계 그림이 없으면 가장 가까운 아래 단계 그림을 쓰고 왕관·빛을 코드로 얹는다. 낱장 그림 주문서는 `ART_PROMPTS.md`, 배경 지우기는 `tools/cutout.py`
 
 ## 구조
 | 파일 | 내용 |
